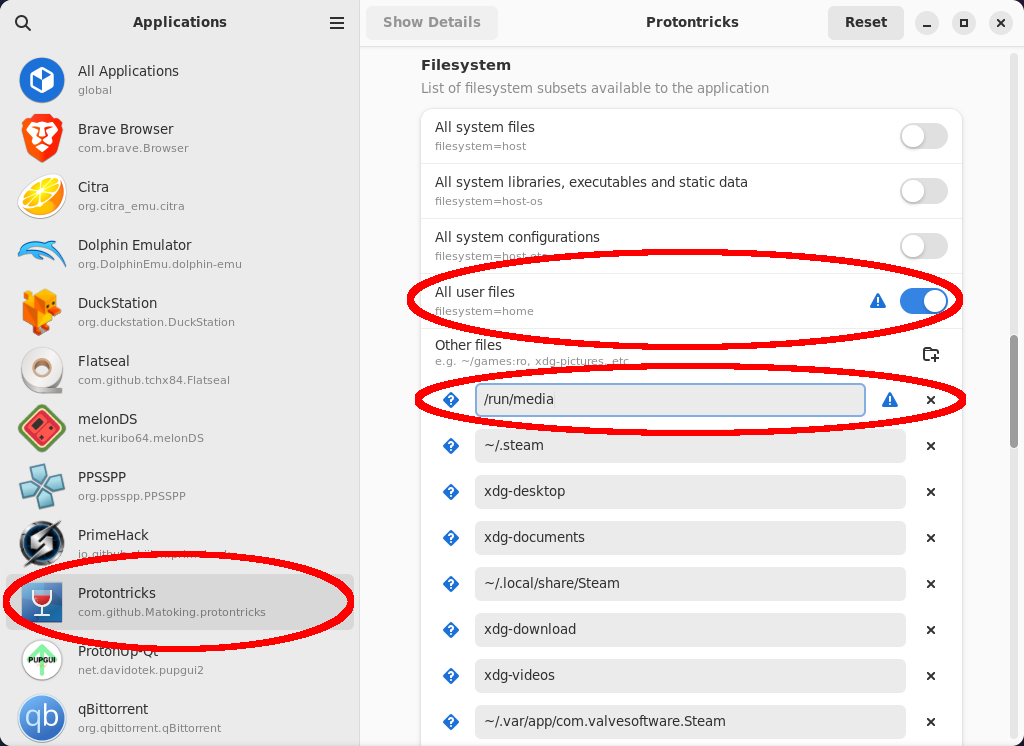
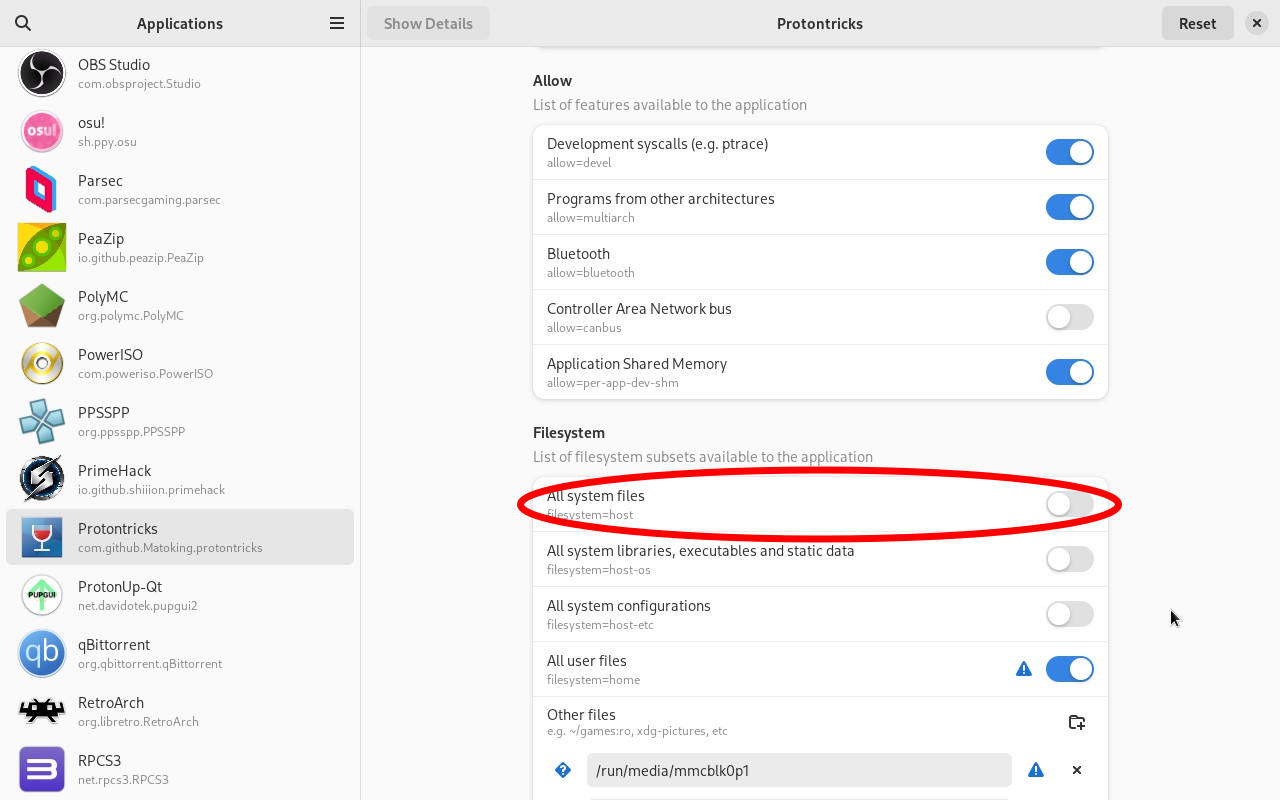
Updated: FlatSeal Permissions in Guide

diff --git a/docs/LinuxSetupGuideNewExtra.md b/docs/LinuxSetupGuideNewExtra.md
@@ -25,9 +25,7 @@ Scroll through the left column of apps in [Flatseal] until you're able to find a
 
 Scroll down to the "Filesystem" section:
 
-1. Enable `All user files`.
-2. Under `Other files`, add a new entry for "/run/media".
-    - And any other locations you may have Steam titles installed.
+1. Enable `All system files`.
 
 Close Flatseal.
 
@@ -39,6 +37,13 @@ echo "alias protontricks-launch='flatpak run --command=protontricks-launch com.g
 ```
 
 Paste these lines into a `terminal` window, and press `enter`.
+
+!!! note "We enabled full filesystem access for simplicity"
+
+    You can be more granular if you know what you're doing, but for simplicity 
+    we've simply enabled full filesystem access.
+
+    The installer requires access to `/home` and protontricks needs access to Steam library folders.
 
 ## Credits
 
